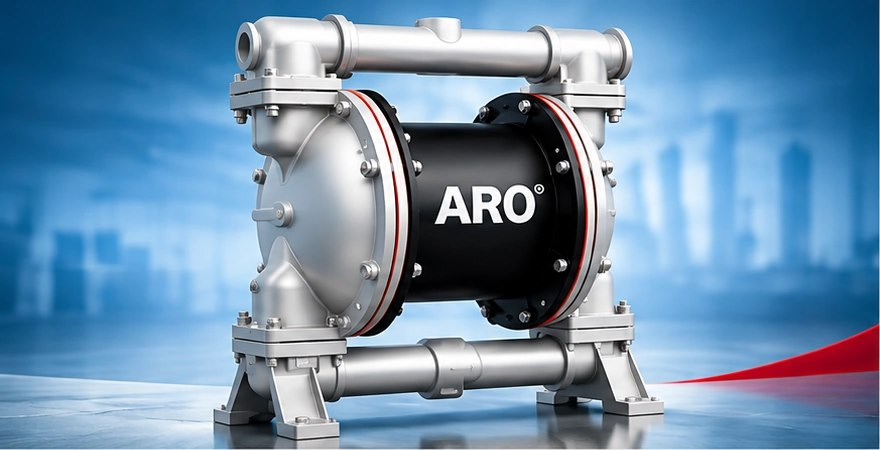
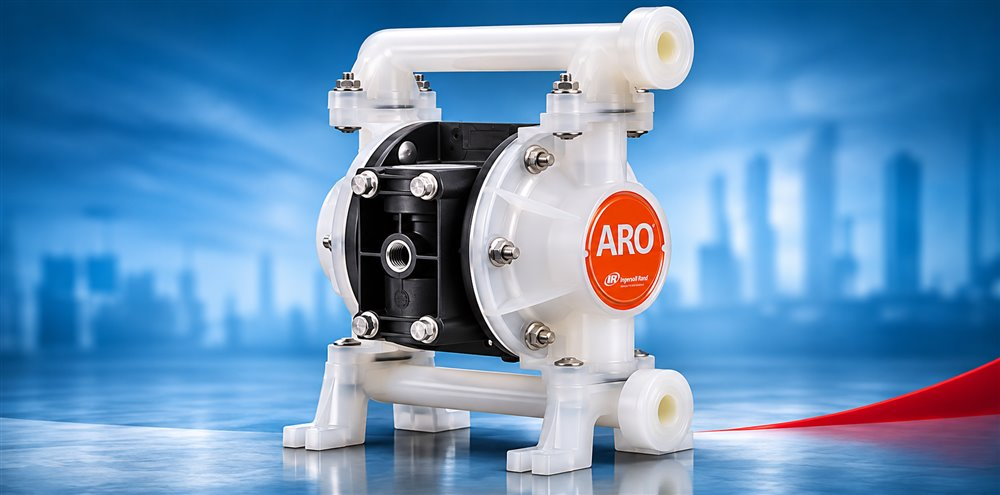
ARO: nova foto da bomba de diafragma pneumática

diff --git a/index.html b/index.html
@@ -1656,7 +1656,7 @@ var CONFIG = {
   privacyUrl: "#",
   campanha: "Bombas Industriais",
   // Versão das imagens: aumente ao adicionar ou trocar fotos em assets/ (força o navegador a buscar de novo)
-  assetVersion: "5"
+  assetVersion: "6"
 };
 
 /* GTM */
